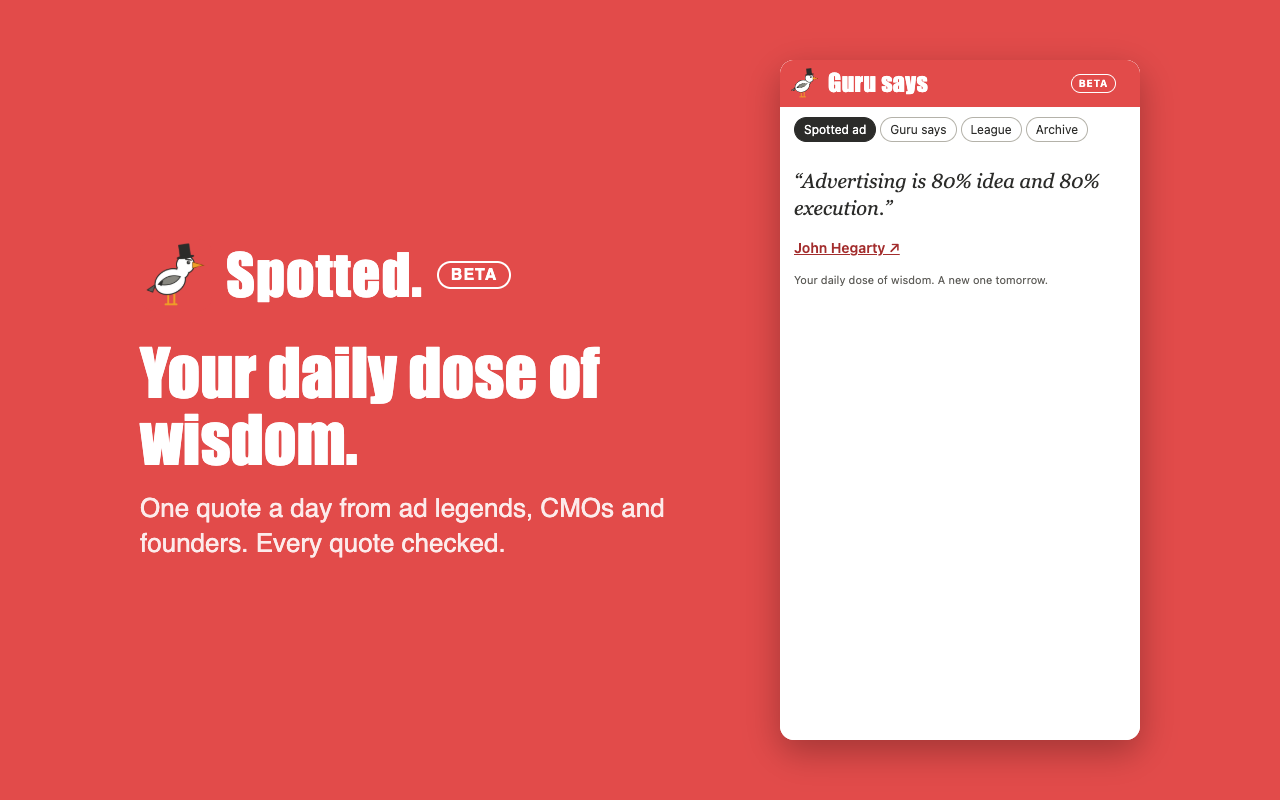
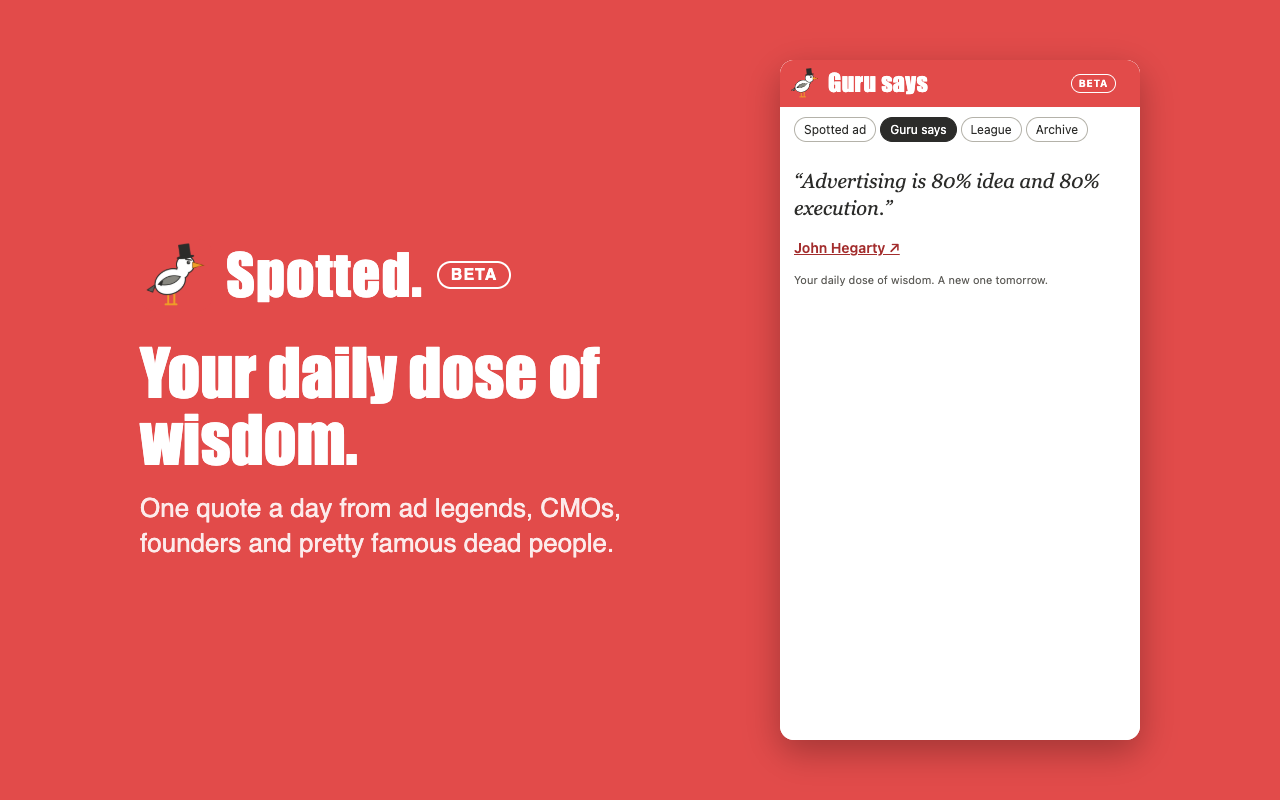
Guru says: ad legends, CMOs, founders and pretty famous dead people

Changed region(s): [[0.1875, 0.6562, 0.4688, 0.7188], [0.625, 0.125, 0.75, 0.1875], [0.4688, 0.625, 0.5312, 0.6562]]

diff --git a/docs/store/LISTING.md b/docs/store/LISTING.md
@@ -33,7 +33,7 @@ Every week:
 • Weekends off. Open it on a Saturday and the gull will tell you to go outside.
 
 Also inside:
-• Guru says: your daily dose of wisdom, one quote a day from an ad legend, CMO or founder. Ogilvy, Hegarty, Cialdini, Jobs and friends. Every quote checked against a source.
+• Guru says: your daily dose of wisdom, one quote a day from ad legends, CMOs, founders and pretty famous dead people. Ogilvy, Hegarty, Cialdini, Jobs and friends. Every quote checked against a source.
 • The Spotted League Table: which agencies are winning all the shiny things. Nobody cares. But we care.
 • Archive: every past pick, searchable by brand or agency.
 
